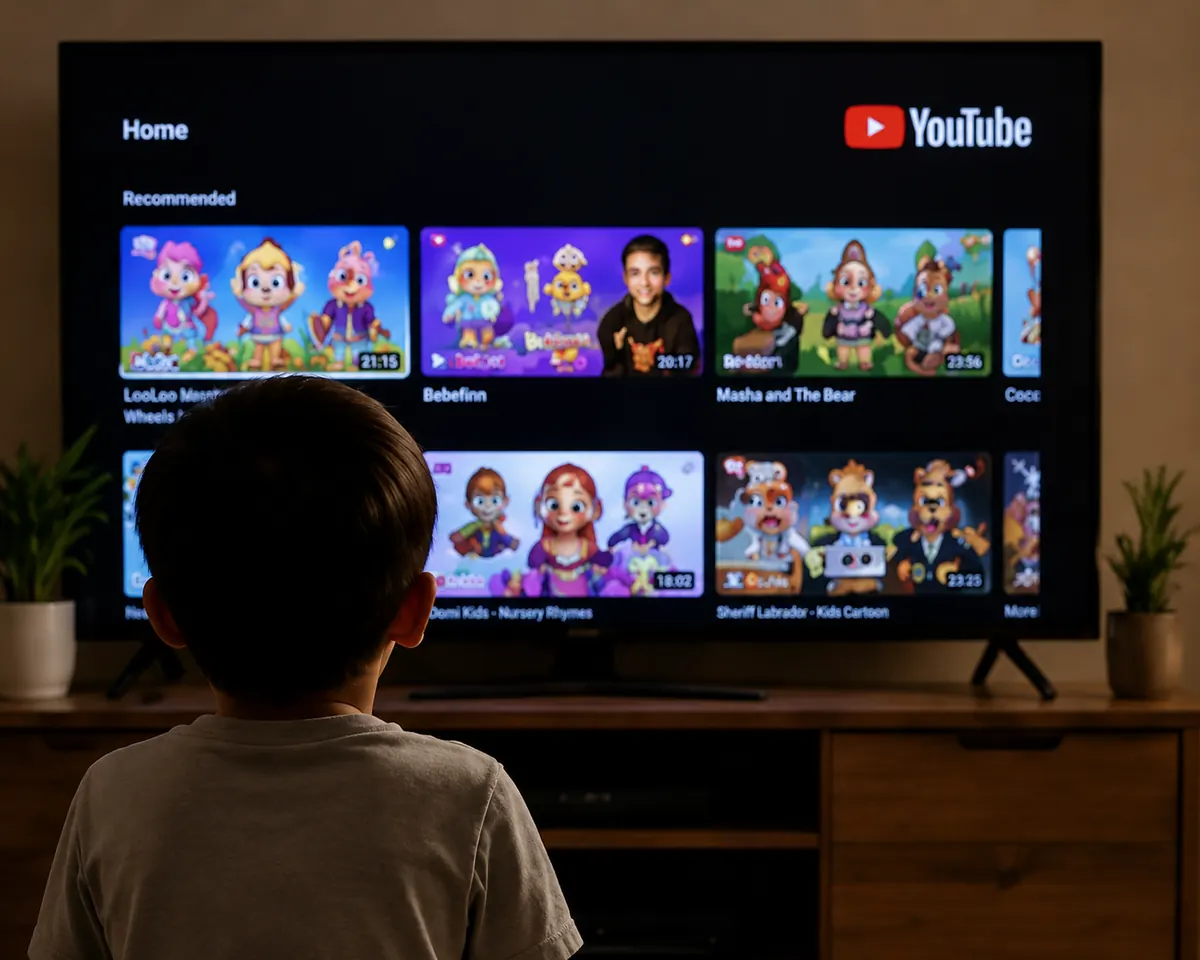
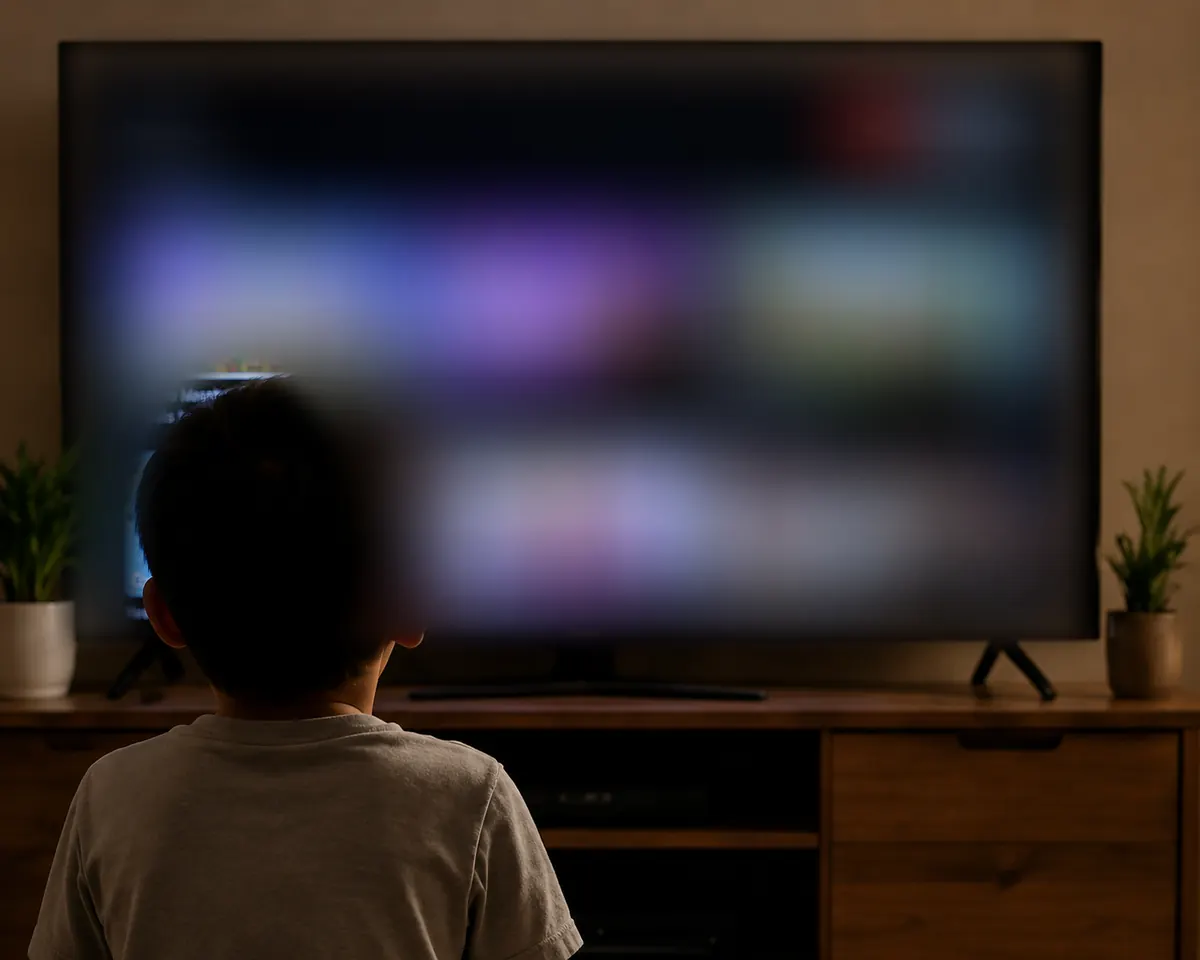
Borrow nobody's brands, and let the price stand on its own
The endless-videos photograph put a real television UI on a commercial
page: the YouTube wordmark, and thumbnails carrying other studios'
characters and show titles. KIDDO competes for the same evening, so that
borrowed marks we have no licence to and implied an association nobody
agreed to.

Throwing the screen out of focus keeps the photograph and drops the
marks — a boy lit by a television is still a boy lit by a television, and
focus on him with the screen soft behind is what the eye expects anyway.
It happens in make-pain-images.mjs rather than in the file, so the
original stays untouched in assets/ and the transformation is readable.

The join notices are honest — every one is a subscription that really
became active — but honest news about other buyers still reads as a nudge
when it floats over the price. The page would rather a parent decided on
the product. Everything behind it still works; putting it back is one
line.

Also commits the four source photographs. The image pipeline reads from
assets/, so without them a fresh clone could not regenerate what it ships.

diff --git a/src/app/page.tsx b/src/app/page.tsx
@@ -3,7 +3,6 @@ import type { Metadata } from "next";
 import { ClosingCall } from "@/components/landing/ClosingCall";
 import { Faq } from "@/components/landing/Faq";
 import { HowItWorks } from "@/components/landing/HowItWorks";
-import { JoinNotices } from "@/components/landing/JoinNotices";
 import { LandingFooter } from "@/components/landing/LandingFooter";
 import { LandingHeader } from "@/components/landing/LandingHeader";
 import { LandingHero } from "@/components/landing/LandingHero";
@@ -103,7 +102,6 @@ export default function LandingPage() {
         <ClosingCall />
       </main>
       <LandingFooter />
-      <JoinNotices />
     </Screen>
   );
 }

diff --git a/src/components/landing/JoinNotices.tsx b/src/components/landing/JoinNotices.tsx
@@ -30,6 +30,11 @@ import {
  * It shows each event once and then stops for good. A ticker that never
  * ran out would be a pressure tactic; this is a small, finite piece of good
  * news, and it never covers the page or takes a tap to get rid of.
+ *
+ * Not mounted anywhere at the moment. Even honest news about other buyers
+ * reads as a nudge when it floats over the price, and the landing page would
+ * rather a parent decided on the product. Everything behind it still works,
+ * so putting it back is one line in the page it belongs to.
  */
 
 /** A beat after the page settles, so the first thing read is the page. */
